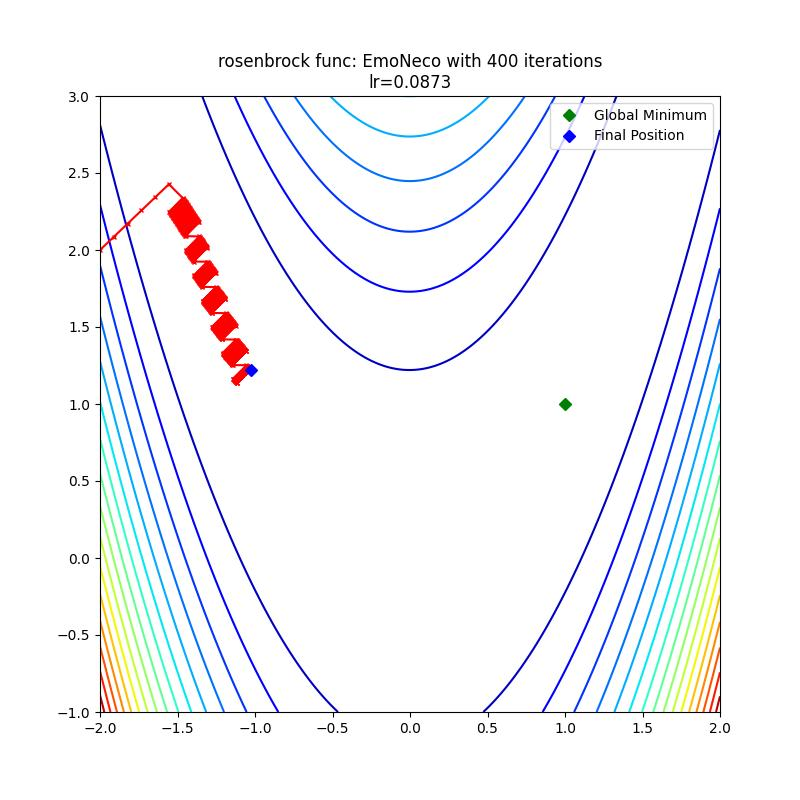
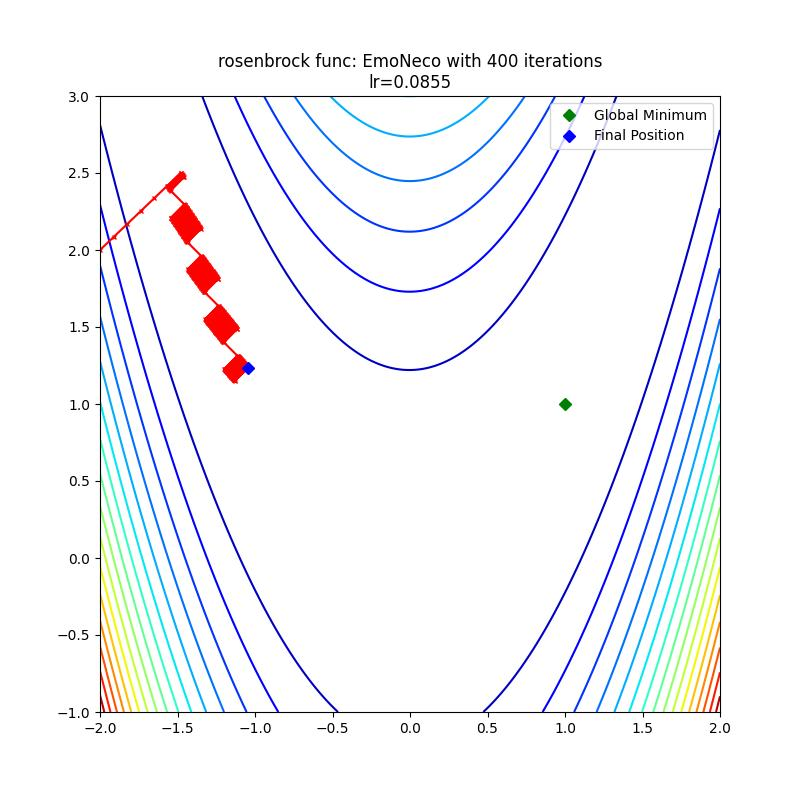
[Update] EmoNavi optimizer to the latest version (#439)
* build(deps): dev deps

* style: fix RUF059

* update: EmoNavi v3 optimizer

* style: fix RUF059

* update: EmoNavi series

* update: recipes

* update: code

* update: recipe

* docs: v3.8.1 changelog

* update: visualize_optimizers

* update: visualizations

* update: visualizations

Changed region(s): [[0.1875, 0.2188, 0.3438, 0.5], [0.5312, 0.0938, 0.5625, 0.125]]

diff --git a/pytorch_optimizer/optimizer/emonavi.py b/pytorch_optimizer/optimizer/emonavi.py
@@ -32,12 +32,11 @@ def get_scalar_ratio(scalar: float, use_shadow: bool = True) -> float:
     if not use_shadow:
         return 0.0
 
+    scalar = abs(scalar)
     if scalar > 0.6:
-        return 0.7 + 0.2 * scalar
-    if scalar < -0.6:
-        return 0.1
-    if abs(scalar) > 0.3:
-        return 0.3
+        return 0.6 + (scalar - 0.6) / 0.4 * 0.4
+    if scalar > 0.1:
+        return 0.1 + (scalar - 0.1) / 0.5 * 0.5
     return 0.0
 
 
@@ -176,6 +175,7 @@ class EmoLynx(BaseOptimizer):
     :param params: PARAMETERS. iterable of parameters to optimize or dicts defining parameter groups.
     :param lr: float. learning rate.
     :param betas: BETAS. coefficients used for computing running averages of gradient and the squared hessian trace.
+    :param use_shadow: bool. whether to use shadow feature.
     :param shadow_weight: float. the weight of the shadow.
     :param weight_decay: float. weight decay (L2 penalty).
     :param weight_decouple: bool. the optimizer uses decoupled weight decay as in AdamW.
@@ -189,6 +189,7 @@ class EmoLynx(BaseOptimizer):
         params: PARAMETERS,
         lr: float = 1e-3,
         betas: BETAS = (0.9, 0.99),
+        use_shadow: bool = False,
         shadow_weight: float = 0.05,
         weight_decay: float = 1e-2,
         weight_decouple: bool = True,
@@ -208,6 +209,7 @@ class EmoLynx(BaseOptimizer):
         defaults: DEFAULTS = {
             'lr': lr,
             'betas': betas,
+            'use_shadow': use_shadow,
             'shadow_weight': shadow_weight,
             'weight_decay': weight_decay,
             'weight_decouple': weight_decouple,
@@ -235,7 +237,8 @@ class EmoLynx(BaseOptimizer):
             state = self.state[p]
 
             if len(state) == 0:
-                state['shadow'] = p.clone()
+                if group['use_shadow']:
+                    state['shadow'] = p.clone()
                 state['exp_avg'] = torch.zeros_like(p)
 
     @torch.no_grad()
@@ -266,7 +269,7 @@ class EmoLynx(BaseOptimizer):
 
                 ema = update_ema(state, loss)
                 scalar = compute_scalar(ema)
-                ratio = get_scalar_ratio(scalar)
+                ratio = get_scalar_ratio(scalar, use_shadow=group['use_shadow'])
 
                 self.apply_weight_decay(
                     p=p,
@@ -277,7 +280,7 @@ class EmoLynx(BaseOptimizer):
                     fixed_decay=group['fixed_decay'],
                 )
 
-                if ratio > 0.0:
+                if group['use_shadow'] and ratio > 0.0:
                     shadow = state['shadow']
 
                     p.lerp_(shadow, weight=ratio)
@@ -301,6 +304,7 @@ class EmoFact(BaseOptimizer):
     :param params: PARAMETERS. iterable of parameters to optimize or dicts defining parameter groups.
     :param lr: float. learning rate.
     :param betas: BETAS. coefficients used for computing running averages of gradient and the squared hessian trace.
+    :param use_shadow: bool. whether to use shadow weights or not.
     :param shadow_weight: float. the weight of the shadow.
     :param weight_decay: float. weight decay (L2 penalty).
     :param weight_decouple: bool. the optimizer uses decoupled weight decay as in AdamW.
@@ -314,6 +318,7 @@ class EmoFact(BaseOptimizer):
         params: PARAMETERS,
         lr: float = 1e-3,
         betas: BETAS = (0.9, 0.999),
+        use_shadow: bool = False,
         shadow_weight: float = 0.05,
         weight_decay: float = 1e-2,
         weight_decouple: bool = True,
@@ -333,6 +338,7 @@ class EmoFact(BaseOptimizer):
         defaults: DEFAULTS = {
             'lr': lr,
             'betas': betas,
+            'use_shadow': use_shadow,
             'shadow_weight': shadow_weight,
             'weight_decay': weight_decay,
             'weight_decouple': weight_decouple,
@@ -360,7 +366,8 @@ class EmoFact(BaseOptimizer):
             state = self.state[p]
 
             if len(state) == 0:
-                state['shadow'] = p.clone()
+                if group['use_shadow']:
+                    state['shadow'] = p.clone()
 
                 shape = p.size()
 
@@ -402,7 +409,7 @@ class EmoFact(BaseOptimizer):
 
                 ema = update_ema(state, loss)
                 scalar = compute_scalar(ema)
-                ratio = get_scalar_ratio(scalar)
+                ratio = get_scalar_ratio(scalar, use_shadow=group['use_shadow'])
 
                 self.apply_weight_decay(
                     p=p,
@@ -413,7 +420,7 @@ class EmoFact(BaseOptimizer):
                     fixed_decay=group['fixed_decay'],
                 )
 
-                if ratio > 0.0:
+                if group['use_shadow'] and ratio > 0.0:
                     shadow = state['shadow']
 
                     p.lerp_(shadow, weight=ratio)
@@ -458,6 +465,7 @@ class EmoNeco(BaseOptimizer):
     :param params: PARAMETERS. iterable of parameters to optimize or dicts defining parameter groups.
     :param lr: float. learning rate.
     :param betas: BETAS. coefficients used for computing running averages of gradient and the squared hessian trace.
+    :param use_shadow: bool. whether to use shadow weights or not.
     :param shadow_weight: float. the weight of the shadow.
     :param weight_decay: float. weight decay (L2 penalty).
     :param weight_decouple: bool. the optimizer uses decoupled weight decay as in AdamW.
@@ -471,6 +479,7 @@ class EmoNeco(BaseOptimizer):
         params: PARAMETERS,
         lr: float = 1e-3,
         betas: BETAS = (0.9, 0.99),
+        use_shadow: bool = False,
         shadow_weight: float = 0.05,
         weight_decay: float = 1e-2,
         weight_decouple: bool = True,
@@ -490,6 +499,7 @@ class EmoNeco(BaseOptimizer):
         defaults: DEFAULTS = {
             'lr': lr,
             'betas': betas,
+            'use_shadow': use_shadow,
             'shadow_weight': shadow_weight,
             'weight_decay': weight_decay,
             'weight_decouple': weight_decouple,
@@ -517,7 +527,8 @@ class EmoNeco(BaseOptimizer):
             state = self.state[p]
 
             if len(state) == 0:
-                state['shadow'] = p.clone()
+                if group['use_shadow']:
+                    state['shadow'] = p.clone()
                 state['exp_avg'] = torch.zeros_like(p)
 
     @torch.no_grad()
@@ -548,7 +559,7 @@ class EmoNeco(BaseOptimizer):
 
                 ema = update_ema(state, loss)
                 scalar = compute_scalar(ema)
-                ratio = get_scalar_ratio(scalar)
+                ratio = get_scalar_ratio(scalar, use_shadow=group['use_shadow'])
 
                 self.apply_weight_decay(
                     p=p,
@@ -559,7 +570,7 @@ class EmoNeco(BaseOptimizer):
                     fixed_decay=group['fixed_decay'],
                 )
 
-                if ratio > 0.0:
+                if group['use_shadow'] and ratio > 0.0:
                     shadow = state['shadow']
 
                     p.lerp_(shadow, weight=ratio)
@@ -572,15 +583,15 @@ class EmoNeco(BaseOptimizer):
 
                 exp_avg.mul_(beta2).add_(grad, alpha=1.0 - beta2)
 
-                if 0.3 < scalar <= 0.5:
-                    update = softsign(blended_grad).mul_(grad_norm)
-                elif scalar < -0.3:
-                    update = softsign(blended_grad)
+                scalar = abs(scalar)
+
+                if 0.2 < scalar <= 0.5:
+                    update = softsign(blended_grad).mul_(grad_norm * (1.0 - scalar))
                 else:
                     direction = blended_grad.sign()
 
                     update = direction.clone()
-                    update[direction != grad.sign()] = 0.0
+                    update[direction != grad.sign()] = 1.0 - scalar
 
                 p.add_(update, alpha=-group['lr'])
 
@@ -609,7 +620,7 @@ class EmoZeal(BaseOptimizer):
         params: PARAMETERS,
         lr: float = 1e-3,
         betas: BETAS = (0.9, 0.999),
-        use_shadow: bool = True,
+        use_shadow: bool = False,
         shadow_weight: float = 0.05,
         weight_decay: float = 1e-2,
         weight_decouple: bool = True,
@@ -718,6 +729,8 @@ class EmoZeal(BaseOptimizer):
                     p.lerp_(shadow, weight=ratio)
                     shadow.lerp_(p, weight=group['shadow_weight'])
 
+                scalar = abs(scalar)
+
                 if grad.dim() >= 2:
                     exp_avg = state['exp_avg']
 
@@ -726,17 +739,17 @@ class EmoZeal(BaseOptimizer):
 
                     exp_avg.mul_(beta2).add_(grad, alpha=1.0 - beta2)
 
-                    if 0.3 < scalar <= 0.5:
-                        update = softsign(blended_grad).mul_(grad_norm)
-                    elif scalar < -0.3:
-                        update = softsign(blended_grad)
-                    else:
-                        direction = blended_grad.sign()
+                    if scalar > 0.1:
+                        if scalar > 0.6:
+                            direction = blended_grad.sign()
 
-                        update = direction.clone()
-                        update[direction != grad.sign()] = 0.0
+                            update = direction.clone()
+                            update[direction != grad.sign()] = 1.0 - scalar
+                        else:
+                            update = softsign(blended_grad)
+                            update.mul_(grad_norm * (1.0 - scalar))
 
-                    p.add_(update, alpha=-group['lr'])
+                        p.add_(update, alpha=-group['lr'])
 
                     exp_avg_r, exp_avg_c = state['exp_avg_r'], state['exp_avg_c']
 
@@ -762,6 +775,6 @@ class EmoZeal(BaseOptimizer):
 
                     update = exp_avg / de_nom
 
-                p.add_(update, alpha=-group['lr'])
+                p.add_(update, alpha=-group['lr'] * (1.0 - scalar))
 
         return loss

diff --git a/tests/constants.py b/tests/constants.py
@@ -666,12 +666,12 @@ OPTIMIZERS: List[Tuple[Any, Dict[str, Union[float, bool, int]], int]] = [
     (AdamC, {'lr': 1e0}, 5),
     (AdamC, {'lr': 1e0, 'ams_bound': True}, 5),
     (SPlus, {'lr': 5e-1, 'weight_decay': 1e-3, 'nonstandard_constant': 1e-1, 'inverse_steps': 2}, 10),
-    (EmoNavi, {'lr': 5e-1}, 5),
-    (EmoLynx, {'lr': 5e-1}, 5),
-    (EmoFact, {'lr': 1e-1}, 5),
-    (EmoNeco, {'lr': 1e0}, 5),
+    (EmoNavi, {'lr': 5e-1, 'use_shadow': True}, 5),
+    (EmoLynx, {'lr': 5e-1, 'use_shadow': True}, 5),
+    (EmoFact, {'lr': 1e-1, 'use_shadow': True}, 5),
+    (EmoNeco, {'lr': 5e-1, 'use_shadow': True}, 5),
     (EmoZeal, {'lr': 1e-1}, 5),
-    (EmoZeal, {'lr': 1e-1, 'use_shadow': False}, 5),
+    (EmoZeal, {'lr': 2e-1, 'use_shadow': True}, 10),
     (Ranger25, {'lr': 1e-1}, 3),
     (Ranger25, {'lr': 1e-1, 't_alpha_beta3': 5}, 3),
     (Ranger25, {'lr': 5e-2, 'stable_adamw': False, 'orthograd': False, 'eps': None, 'lookahead_merge_time': 2}, 3),

diff --git a/examples/visualize_optimizers.py b/examples/visualize_optimizers.py
@@ -26,9 +26,12 @@ OPTIMIZERS_IGNORE: Tuple[str, ...] = (
     'adamc',
     'adamwsn',
     'adamuon',
+    'adago',
+    'distributedmuon',
     'splus',
+    'lbfgs',
 )
-OPTIMIZERS_MODEL_INPUT_NEEDED: Tuple[str, ...] = ('lomo', 'adalomo', 'adammini')
+OPTIMIZERS_MODEL_INPUT_NEEDED: Tuple[str, ...] = ('lomo', 'adalomo', 'adammini', 'adago')
 OPTIMIZERS_GRAPH_NEEDED: Tuple[str, ...] = ('adahessian', 'sophiah')
 OPTIMIZERS_CLOSURE_NEEDED: Tuple[str, ...] = ('alig', 'bsam')
 EVAL_PER_HYPERPARAM: int = 600

diff --git a/tests/test_optimizer_variants.py b/tests/test_optimizer_variants.py
@@ -42,7 +42,7 @@ def test_adanorm_variant(optimizer_config):
     param = simple_parameter(True)
     param.grad = torch.ones(1, 1)
 
-    optimizer_class, config = optimizer_config[:2]
+    optimizer_class, _ = optimizer_config[:2]
 
     optimizer = optimizer_class([param], adanorm=True)
     optimizer.step()

diff --git a/examples/pytorch_lightning_example.py b/examples/pytorch_lightning_example.py
@@ -19,7 +19,7 @@ class LitAutoEncoder(pl.LightningModule):
         self.decoder = nn.Sequential(nn.Linear(3, 64), nn.ReLU(), nn.Linear(64, 28 * 28))
 
     def training_step(self, batch, batch_idx):
-        x, y = batch
+        x, _ = batch
         x = x.view(x.size(0), -1)
 
         z = self.encoder(x)

diff --git a/examples/pytorch_lightning_manual_backward_example.py b/examples/pytorch_lightning_manual_backward_example.py
@@ -23,7 +23,7 @@ class LitAutoEncoder(pl.LightningModule):
         opt = self.optimizers()
         opt.zero_grad()
 
-        x, y = batch
+        x, _ = batch
         x = x.view(x.size(0), -1)
 
         z = self.encoder(x)

diff --git a/docs/changelogs/v3.8.1.md b/docs/changelogs/v3.8.1.md
@@ -6,6 +6,8 @@
     * [Friendly Sharpness-Aware Minimization](https://openaccess.thecvf.com/content/CVPR2024/papers/Li_Friendly_Sharpness-Aware_Minimization_CVPR_2024_paper.pdf) 
 * Implement `AdaGO` optimizer. (#436, #437)
     * [AdaGrad Meets Muon: Adaptive Stepsizes for Orthogonal Updates](https://arxiv.org/abs/2509.02981) 
+* Update `EXAdam` optimizer to the latest version. (#438)
+* Update `EmoNavi` optimizer to the latest version. (#433, #439)
 
 ### Bug
 
@@ -17,4 +19,4 @@
 
 ## Contribution
 
-thanks to @liveck
+thanks to @liveck, @AhmedMostafa16
